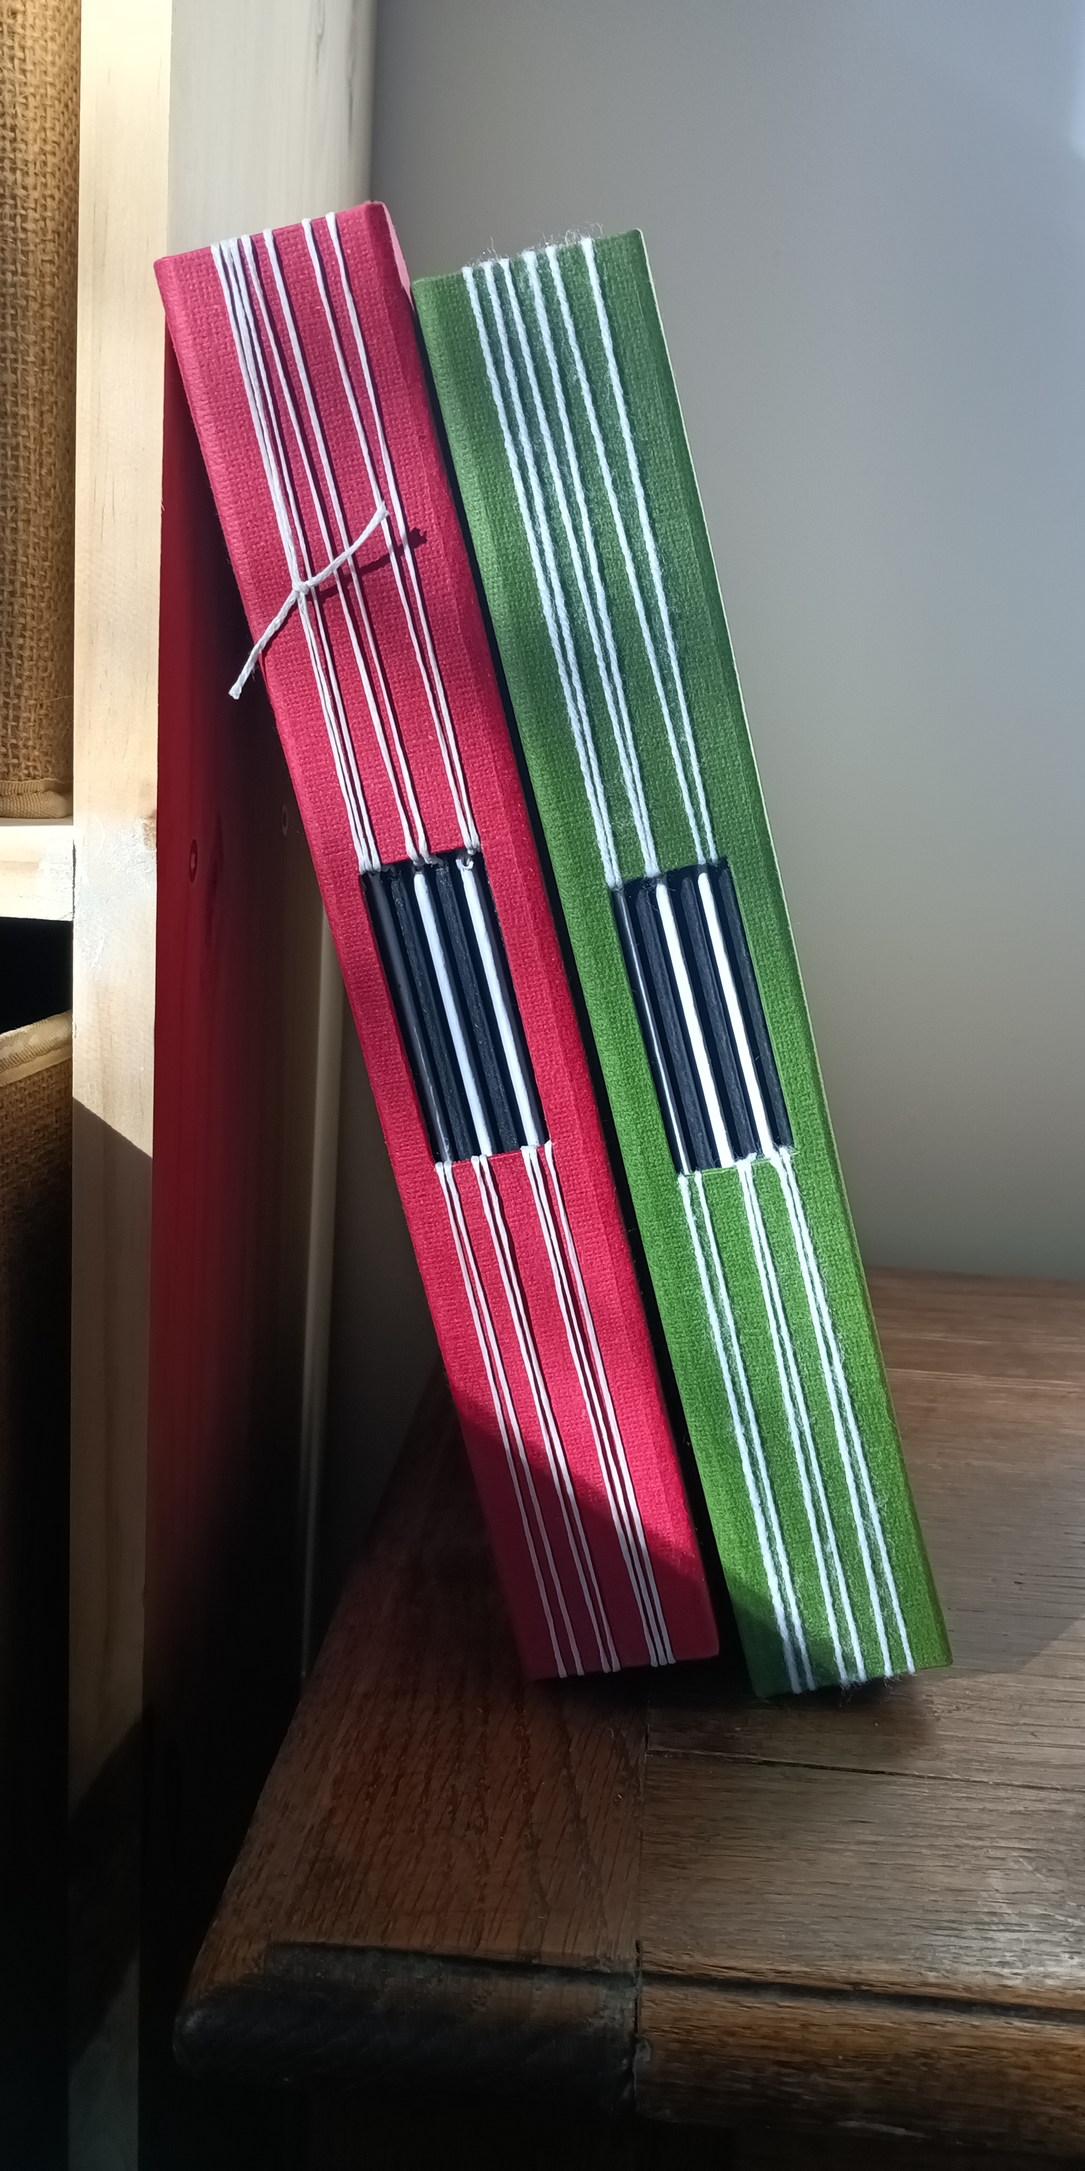
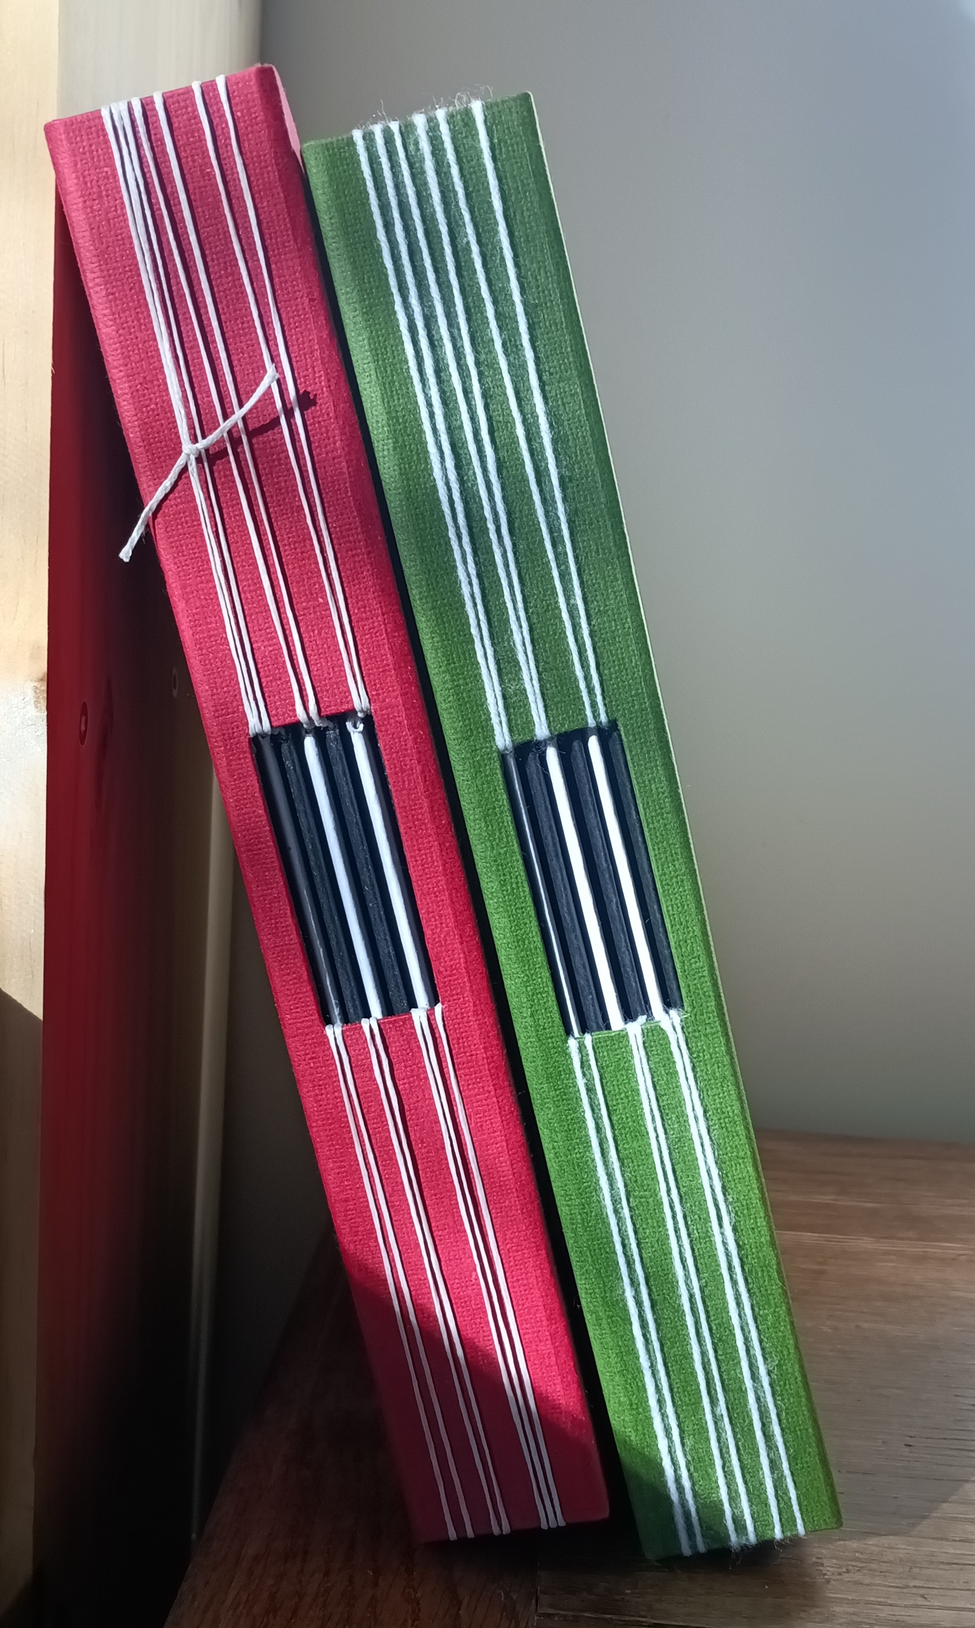
ajout produits et prix dans boutique

diff --git a/carnetterie.html b/carnetterie.html
@@ -1,0 +1,123 @@
+<!DOCTYPE html>
+<html lang="fr">
+
+<head>
+    <meta charset="utf-8" >
+    <title>Boutique - La feuille en folie</title>
+    <link href="style.css" rel="stylesheet" >
+    <link rel="preconnect" href="https://fonts.googleapis.com">
+    <link rel="preconnect" href="https://fonts.gstatic.com" crossorigin>
+    <link href="https://fonts.googleapis.com/css2?family=Karla:ital,wght@0,200..800;1,200..800&family=Montez&display=swap" rel="stylesheet">
+</head>
+
+<body>
+    <header>
+        <div class="entete">
+            <img src="images/logo_la_feuille_en_folie_banniere.jpeg" alt="Logo La feuille en folie" class="banniere">
+            
+        </div>
+        
+    </header>
+    <nav>
+    <div class="menu">
+            
+            <a href="index.html">Accueil</a>
+            <a href="boutique.html">Boutique</a>
+            <a href="mariage.html">Mariage</a>
+            <a href="voyage.html">Voyage</a>
+            <a href="naissance.html">Naissance</a>
+            <a href="a-propos.html">Qui suis-je?</a>
+        </div>
+    </nav>
+
+    <main>
+        <h1>Boutique - carnetterie</h1>
+        <p>
+        Vous aimez le fait-main, les beaux objets? Vous aimez écrire, dessinez, peindre, rêver? Cette page est faite pour vous!
+        </p>
+
+        <section class="grille_photos2">
+            <h2>Petit carnet montagnes</h2>
+            <div class="grille_photos">
+                <img src="images/carnets_montagne.jpg" title='Petit carnet "Montagnes"' alt='Petit carnet "Montagnes"' class="img" >
+                <img src="images/carnets_montagne_couleurs.jpg" title='Petit carnet "Montagnes" - couleurs disponibles' alt="Couleurs disponibles" class="img" >
+                <p>
+                Ce carnet est parfait pour les explorateurs, grâce à son petit format et à sa reliure robuste, il peut être transporté partout! Pour pouvoir écrire en montagne, à la plage, sur un banc en ville, ou bien sûr chez soi de retour d'une aventure! Coloris disponibles: noir, bleu ardoise, lapi lazuli, bleu canard, bleu pétrole et vert forêt.
+                Carnet format A6, reliure copte, 64 pages couleur chamois de 160 g/m<sup>2</sup>. Motif sur la couverture peint à l'acrylique.<br>
+                48 €
+            </p>
+            </div>
+
+            <h2>Carnet érable du Japon</h2>
+            <div class="grille_photos">
+                <img src="images/cahier_erable_japon_dos.jpg" title='Carnet "Erable du Japon" - dos' alt='Carnet "Erable du Japon" - dos' class="img" >
+                <img src="images/cahier_erable_japon_couverture.jpg" title='Carnet "Erable du Japon" - couverture' alt='Carnet "Erable du Japon" - couverture' class="img" >
+                <img src="images/carnets_erable_japon_couleurs.jpg" title='Carnet "Erable du Japon" - coloris disponibles' alt='Carnet "Erable du Japon"- coloris disponibles' class="img" >
+                <p>
+                Compagnon idéal à poser sur votre table de chevet ou sur votre étagère préférée, il sera prêt à accueillir vos pensées, vos idées sous toutes ses formes.
+                Carnet format 17 x 13,2 cm², reliure croisillons, 56 pages couleur chamois de 160 g/m<sup>2</sup>. Motif sur la couverture peint à l'acrylique.<br>
+                75 €
+            </p>
+            </div>
+            
+            <h2>Petit album</h2>
+             
+            <div class="grille_photos">
+                <img src="images/petit_album_intérieur.jpg" title='Petit album - intérieur' alt="Petit album - intérieur" class="img" >
+                <img src="images/petit_album.jpg" title='Petit album - extérieur' alt="Petit album - extérieur" class="img" >
+                
+            </div>   
+            <div class="grille_photos">
+                <img src="images/petit_album_bleu_canard.jpg" title='Petit album - bleu canard' alt="Petit album - bleu canard" class="img" >
+                <img src="images/petit_album_bleu_canard_dos.jpg" title='Petit album - bleu canard - dos' alt="Petit album - bleu canard - dos" class="img" >
+            </div>
+                <img src="images/petit_album_bleu_pétrole.jpg" title='Petit album - bleu pétrole' alt="Petit album - bleu pétrole" class="img" >
+                <img src="images/petit_album_bleu_petrole_dos.jpg" title='Petit album - bleu pétrole - dos' alt="Petit album - bleu pétrole - dos" class="img" >
+            <div> 
+                <img src="images/petit_album_rouge.jpg" title='Petit album - rouge' alt="Petit album - rouge" class="img" >
+                <img src="images/petit_album_rouge_dos.jpg" title='Petit album - rouge - dos' alt="Petit album - rouge - dos" class="img" >
+            </div>   
+                <p>
+                Avec son format généreux, cet album peut servir de livre de recettes ou d'album photos. Coloris disponibles : bleu canard, bleu pétrole, rouge.
+                Carnet format 21 x 19 cm², reliure longstitch à motifs chevrons, 56 pages couleur chamois de 160 g/m<sup>2</sup>.<br>
+                102 €<br>
+                Peinture acrylique personnalisée sur la couverture : + 10 €
+            </p>
+            
+
+            <h2>Grand album</h2>
+            <div class="grille_photos">
+                <img src="images/grand_album.jpg" title='Grand album' alt="Grand album" class="img" >
+                <img src="images/grand_album_interieur_noir_blanc.jpg" title='Grand album - intérieur noir & blanc' alt="Grand album - intérieur noir & blanc" class="img" >
+                <img src="images/grand_album_noir_beige.jpg" title='Grand album - noir et beige' alt="Grand album - noir et beige" class="img" >
+                <img src="images/grand_album_vert_blanc.jpg" title='Grand album - vert et blanc' alt="Grand album - vert et blanc" class="img" >
+                <img src="images/grand_album_rouge_blanc.jpg" title='Grand album - rouge et blanc' alt="Grand album - rouge et blanc" class="img" >
+            
+            </div>
+            <p>
+                Un album à destination de tous.tes celles et ceux qui souhaitent créer! Album grand format (28 x 28 cm<sup>2</sup>), 56 pages noires et blanches ou sépia, de 250 g/m<sup>2</sup> pour pouvoir coller des photos, peindre, dessiner, écrire, et tout ceci avec un confort incroyable. Le papier ne gondolera pas! 
+                Chaque page peut accueillir jusqu'à 3 photos de 10,5 x 15 cm<sup>2</sup>.<br>
+                106 €<br>
+                Peinture acrylique personnalisée sur la couverture : + 10 €             
+
+         <a href="formulaire_contact.html" class="cta">Pour des coloris particuliers, contactez-moi!</a></p>
+
+        </section> 
+
+
+    </main>
+
+    <footer>
+        <div class="pied-de-page">
+            <img src="images/logo_la_feuille_en_folie_site_internet.jpeg" alt="Logo La feuille en folie" class="logo_small">
+            <a target="_blank" href="https://www.instagram.com/juliette_alcaraz?igsh=MXU0d2g4ZngyNWt20Q==">
+            <img src="images/Instagram_Glyph_Gradient.png" alt="Logo Instagram" class="logo_small">
+            </a>
+            <a href="CGV.html" class="cta">CGV</a>
+            
+        <a href="formulaire_contact.html" class="cta">Un projet, des envies? Écrivez-moi!</a>
+        </div>
+    </footer>
+</body>
+
+</html>

diff --git a/carterie.html b/carterie.html
@@ -1,0 +1,106 @@
+<!DOCTYPE html>
+<html lang="fr">
+
+<head>
+    <meta charset="utf-8" >
+    <title>Boutique - La feuille en folie</title>
+    <link href="style.css" rel="stylesheet" >
+    <link rel="preconnect" href="https://fonts.googleapis.com">
+    <link rel="preconnect" href="https://fonts.gstatic.com" crossorigin>
+    <link href="https://fonts.googleapis.com/css2?family=Karla:ital,wght@0,200..800;1,200..800&family=Montez&display=swap" rel="stylesheet">
+</head>
+
+<body>
+    <header>
+        <div class="entete">
+            <img src="images/logo_la_feuille_en_folie_banniere.jpeg" alt="Logo La feuille en folie" class="banniere">
+            
+        </div>
+        
+    </header>
+    <nav>
+    <div class="menu">
+            
+            <a href="index.html">Accueil</a>
+            <a href="boutique.html">Boutique</a>
+            <a href="mariage.html">Mariage</a>
+            <a href="voyage.html">Voyage</a>
+            <a href="naissance.html">Naissance</a>
+            <a href="a-propos.html">Qui suis-je?</a>
+        </div>
+    </nav>
+
+    <main>
+        <h1>Boutique - Carterie</h1>
+        <p>
+        Retrouvez ici vos cartes faites avec amour, locales et de saison!<br>
+        Ces cartes sont faites à partir d'une peinture originale à l'acrylique, qui est ensuite numérisée et imprimée par mes soins sur du papier ivoire de 160 g/m². Format 13.6 x 9.8 cm².
+        </p>
+        
+        <h2>Cartes "Joyeux Noël"</h2>
+            <div class="grille_photos">
+                <img src="images/carte_joyeux_noel_houx.jpg" title='Carte "Joyeux Noël" - houx' alt='Carte "Joyeux Noël" - houx' class="img" >
+                <img src="images/carte_joyeux_noel_pomme_pin.jpg" title='Carte "Joyeux Noël" - pomme de pin' alt='Carte "Joyeux Noël" - pomme de pin' class="img" >
+                <p>
+                Cette année, le Père Noël a décidé d'offrir des souvenirs? Concerts, ateliers, spectacles...<br>
+                En si vous écriviez une jolie carte à glisser dans votre sapin?<br>
+                Ces cartes sont doubles, il est possible d'écrire à l'intérieur et au dos.<br>
+                4 € l'unité. 5,30 € avec enveloppe fait-main.
+             </p>
+            </div>
+
+        <h2>Enveloppes faites-main</h2>
+            <div class="grille_photos">
+                <img src="images/enveloppe_sapin.jpg" title='Enveloppe - sapin' alt='Enveloppe - sapin' class="img" >
+                <img src="images/enveloppe_pomme_pin.jpg" title='Enveloppe - pomme de pin' alt='Enveloppe pomme de pin' class="img" >
+                <p>
+                Pour protéger et sublimer vos cartes, ces enveloppes ont été imaginées et fabriquées par mes soins.
+                1,30 € € l'unité. 
+             </p>
+            </div>
+        
+        <h2>Cartes de vœux</h2>
+            <div class="grille_photos">
+                <img src="images/carte_voeux_cret_poulet.jpg" title='Carte "Meilleurs vœux" - Vue du Crêt du Poulet' alt='Carte "Meilleurs vœux" - Vue du Crêt du Poulet' class="img" >
+                <img src="images/carte_voeux_grand_bornand.jpg" title='Carte "Meilleurs vœux" - Le Grand Bornand' alt='Carte "Meilleurs vœux" - Le Grand Bornand' class="img" >
+                <img src="images/carte_voeux_varsovie.jpg" title='Carte "Meilleurs vœux" - Varsovie' alt='Carte "Meilleurs vœux" - Varsovie' class="img" >
+                <img src="images/carte_voeux_col_barioz.jpg" title='Carte "Meilleurs vœux" - Col du Barioz' alt='Carte "Meilleurs vœux" - Col du Barioz' class="img" >
+                
+                <p>
+                Et si cette année, vous preniez le temps d'écrire à vos proches pour leur souhaiter une bonne année? Une belle carte à garder précieusement au fil des ans...<br>
+                Ces cartes sont doubles, il est possible d'écrire à l'intérieur et au dos.<br>
+                4 € l'unité. 5,30 € avec enveloppe fait-main.
+             </p>
+            </div>
+        
+
+        <h2>Marque-pages</h2>
+            <div class="grille_photos">
+                <img src="images/marque-page_pomme_pin.jpg" title='Marque-page - pomme de pin' alt='Marque-page - pomme de pin' class="img" >
+                <img src="images/marque-page_sapin.jpg" title='Marque-page - houx' alt='Marque-page - houx' class="img" >
+            </div>
+            <div class="grille_photos">
+                <img src="images/marque-pages_cret_poulet.jpg" title='Marque-page - Crêt du Poulet' alt='Marque-page - Crêt du Poulet' class="img" >
+                <img src="images/marque-pags_col_barioz.jpg" title='Marque-page - Col du Barioz' alt='Marque-page - Col du Barioz' class="img" >
+                <p>
+                Pomme de pin, houx, montagnes enneigées... Voilà de quoi passer l'hiver avec un (ou des) bons livres!<br>
+                2 € l'unité. 
+             </p>
+            </div>
+
+    </main>
+
+    <footer>
+        <div class="pied-de-page">
+            <img src="images/logo_la_feuille_en_folie_site_internet.jpeg" alt="Logo La feuille en folie" class="logo_small">
+            <a target="_blank" href="https://www.instagram.com/juliette_alcaraz?igsh=MXU0d2g4ZngyNWt20Q==">
+            <img src="images/Instagram_Glyph_Gradient.png" alt="Logo Instagram" class="logo_small">
+            </a>
+            <a href="CGV.html" class="cta">CGV</a>
+            
+        <a href="formulaire_contact.html" class="cta">Un projet, des envies? Écrivez-moi!</a>
+        </div>
+    </footer>
+</body>
+
+</html>

diff --git a/boutique.html b/boutique.html
@@ -33,49 +33,21 @@
     <main>
         <h1>Boutique</h1>
         <p>
-        Envie de carnets fait-main, de beaux papiers pour vos correspondances? Ouverture de la boutique le 1er décembre!
+        Envie de carnets fait-main, de beaux papiers pour vos correspondances? La boutique est ouverte!
         </p>
-        <section class="carre-contenu">
+
+        <section class="categories">
             <div>
-                <ul>
-                    <li>Carnets A6</li>
-                    <li>Albums photos</li>
-                    <li>Livre de création</li>
-                    <li>Cartes de vœux</li>
-                    <li>Marque-pages</li>
-                </ul>
+                <a href="carterie.html" class="cta">
+                <h2>Carterie</h2>
+                <img src="images/cartes_voeux.jpg" title="Carterie" alt="Carterie" class="img" ></a>
             </div>
-            
-            
-        <img src="images/carnets_montagne.jpg" title="Petit carnet montagnes" alt="Petit carnet montagnes" class="img" >
-            
+            <div>
+                <a href="carnetterie.html" class="cta">
+                <h2>Carnetterie</h2>
+                 <img src="images/carnets_montagne.jpg" title="Carnetterie" alt="Carnetterie" class="img" ></a>
+            </div>
         </section>
-
-        <section class="grille_photos2">
-            <h2>Carnet A6</h2>
-            <div class="grille_photos">
-                <img src="images/carnet_montagnes_coloris.jpg" title='Petit carnet "Montagnes" - couleurs disponibles' alt="Couleurs disponibles" class="img" >
-            </div>
-            <p>
-                Ce carnet est parfait pour les explorateurs, grâce à son petit format et à sa reliure robuste, il peut être transporté partout! Pour pouvoir écrire en montagne, à la plage, sur un banc en ville, ou bien sûr chez soi de retour d'une aventure! Coloris disponibles: noir, bleu ardoie, lapi lazuli, bleu canard, bleu pétrole et vert forêt.
-                Carnet format A6, reliure copte, feuilles couleur chamois de 160 g/m<sup>2</sup>. Motif sur la couverture peint à l'acrylique.
-            </p>
-
-            <h2>Album photos créatif</h2>
-            <div class="grille_photos">
-                <img src="images/album_photo_creatif.jpg" title='Album photo créatif' alt="Album photo créatif" class="img" >
-            </div>
-            <p>
-                Un album à destination de tous.tes celles et ceux qui souhaitent créer! Album grand format (28 x 28 cm<sup>2</sup>), 56 pages noires et blanches, de 250 g/m<sup>2</sup> pour pouvoir coller des photos, peindre, dessiner, écrire, et tout ceci avec un confort incroyable. Le papier ne gondolera pas! 
-                Chaque page peut accueillir jusqu'à 3 photos de 10,5 x 15 cm<sup>2</sup>. Pour des coloris particuliers, <a href="formulaire_contact.html" class="cta">contactez-moi!</a>
-            </p>
-
-            <h2>Collection hivernale</h2>
-            <div class="grille_photos">   
-                    <img src="images/cartes_voeux.jpg" title="Cartes de vœux" alt="Cartes de vœux" class="img" >
-                    <img src="images/marque-pages.jpg" title="Marque-pages" alt="Marque-pages" class="img" >
-            </div>    
-        </section> 
     </main>
 
     <footer>

diff --git a/CGV.html b/CGV.html
@@ -149,8 +149,11 @@ Pour les envois en lettre verte aucun remboursement ne sera effectué, la perte 
     <h1>Mentions commerciales et droits de publicité</h1>
     <section>
         <p>
-         Juliette Alcaraz se réserve la possibilité d’inclure dans la réalisation une mention publicitaire indiquant clairement sa contribution, les informations légales de l’entreprise et des informations de contact. La signature ne peut être ni déplacée ni supprimée sans l’accord écrit de l’auteur.<br>
-         Sauf mention contraire explicite du client notifiée par courrier avec accusé de réception, Juliette Alcaraz se réserve le droit de mentionner ses réalisations pour le demandeur sur ses documents de communication externe et de publicité (site internet, portfolio, blog, etc.) et lors de ses démarchages professionnels. Cependant, avant toute diffusion de photographies d’un produit sur mesure, le Prestataire s’engage à demander l’accord préalable écrit au Client. Celui-ci doit définir avec le Prestataire de manière écrite quelles mentions doivent être éventuellement masquées afin de respecter les données personnelles du Client. Le client pourra également demander par mail à postmaster@feuille-en-folie.fr à ce que certaines mentions soient masquées après la diffusion.   
+         Juliette Alcaraz se réserve la possibilité d’inclure dans la réalisation une mention publicitaire
+         indiquant clairement sa contribution, les informations légales de l’entreprise et des informations de contact. La signature ne peut être ni déplacée ni supprimée sans l’accord écrit de l’auteur.<br>
+         Sauf mention contraire explicite du client notifiée par courrier avec accusé de réception, Juliette Alcaraz se réserve le droit de mentionner ses réalisations pour le demandeur sur ses documents de communication externe et de publicité (site internet, portfolio, blog, etc.) et lors de ses démarchages professionnels. 
+         Cependant, avant toute diffusion de photographies d’un produit sur mesure, le Prestataire s’engage à demander l’accord préalable écrit au Client. Celui-ci doit définir avec le Prestataire de manière écrite quelles mentions doivent être éventuellement masquées afin de respecter les données personnelles du Client. 
+         Le client pourra également demander par mail à juliette.alcaraz@feuille-en-folie.fr à ce que certaines mentions soient masquées après la diffusion.   
         </p>
     </section>
 
@@ -209,7 +212,7 @@ fournies dans le cadre de l’exécution de la Prestation : prénom, nom, numé
      (La Poste, Mondial Relay) utilisés dans le cadre de la Commande. La personne concernée dispose des droits d’accès, de rectification,
       de suppression,  d’opposition, de limitation du traitement, ainsi que du droit à la portabilité de ses données.<br>
 
-      Pour exercer ses droits, le Client doit contacter le Prestataire par voie électronique à l’adresse suivante : postmaster@feuille-en-folie.fr
+      Pour exercer ses droits, le Client doit contacter le Prestataire par voie électronique à l’adresse suivante : juliette.alcaraz@feuille-en-folie.fr
         </p>
 <h1>Litige – Médiation de la consommation</h1>
     <section>

diff --git a/index.html b/index.html
@@ -30,10 +30,12 @@
 
     <main>
         <p>
-            Bienvenue sur mon site! Il est codé par mes soins et en cours de fabrication, merci d'être indulgent.es! Pour le moment, il s'agit d'un site vitrine, mais vous pourrez bientôt faire vos petits achats. En attendant, vous pouvez me contacter <a href="formulaire_contact.html">ici</a>.
+            Bienvenue sur mon site! Il est codé par mes soins et en cours de fabrication, merci d'être indulgent.es!<br>
+            Pour le moment, il s'agit d'un site vitrine, mais vous pourrez bientôt faire vos petits achats. En attendant, pour faire vos commandes, vous pouvez me contacter <a href="formulaire_contact.html">ici</a>.
         </p>
         <h2>La feuille en folie, c'est...</h2>
         <section>
+        <div class="carre-contenu">
         <ul>
             <li>Des carnets faits-mains uniques,</li>
             <li>Des coffrets de correspondance fabriqués de A à Z,</li>
@@ -41,6 +43,7 @@
             <li>Des peintures sur mesure d'après photo.</li>
         
         </ul>
+        </div>
         <div class="grille_photos">   
                     <img src="images/cartes_voeux.jpg" title="Cartes de vœux" alt="Cartes de vœux" class="img" >
                     <img src="images/marque-pages.jpg" title="Marque-pages" alt="Marque-pages" class="img" >

diff --git a/style.css b/style.css
@@ -45,7 +45,7 @@ p {
   font-size: 1.5em;
   font-family: 'Karla';
   color: #e7d6b9;
-  margin:"auto";
+  margin:100px;
   width:"auto";
 } /*paragraphes de texte*/
 
@@ -238,3 +238,15 @@ input[type=submit]:hover {
   background-color: #036c76;
   padding: 20px;
 } 
+
+.categories{
+  display: grid;
+  grid-template-columns: 1fr 1fr;
+  grid-template-rows: 1fr;
+  gap: 20 px;
+}
+.prod_carterie{
+  display: grid;
+  grid-template-columns: 1fr 1fr;
+  grid-template-rows: 1fr 1fr;
+  gap: 20 px;}

diff --git a/formulaire_contact.html b/formulaire_contact.html
@@ -30,7 +30,7 @@
     </nav>
 
     <main>
-        <p>Le formulaire de contact étant en construction, merci de me contacter directement à l'adresse <a>postmaster@feuille-en-folie.fr</a> ou via instagram.</p>
+        <p>Le formulaire de contact étant en construction, merci de me contacter directement à l'adresse <a>juliette.alcaraz@feuille-en-folie.fr</a> ou via instagram.</p>
          <div class="container">
   <form action="action_page.php">
 
